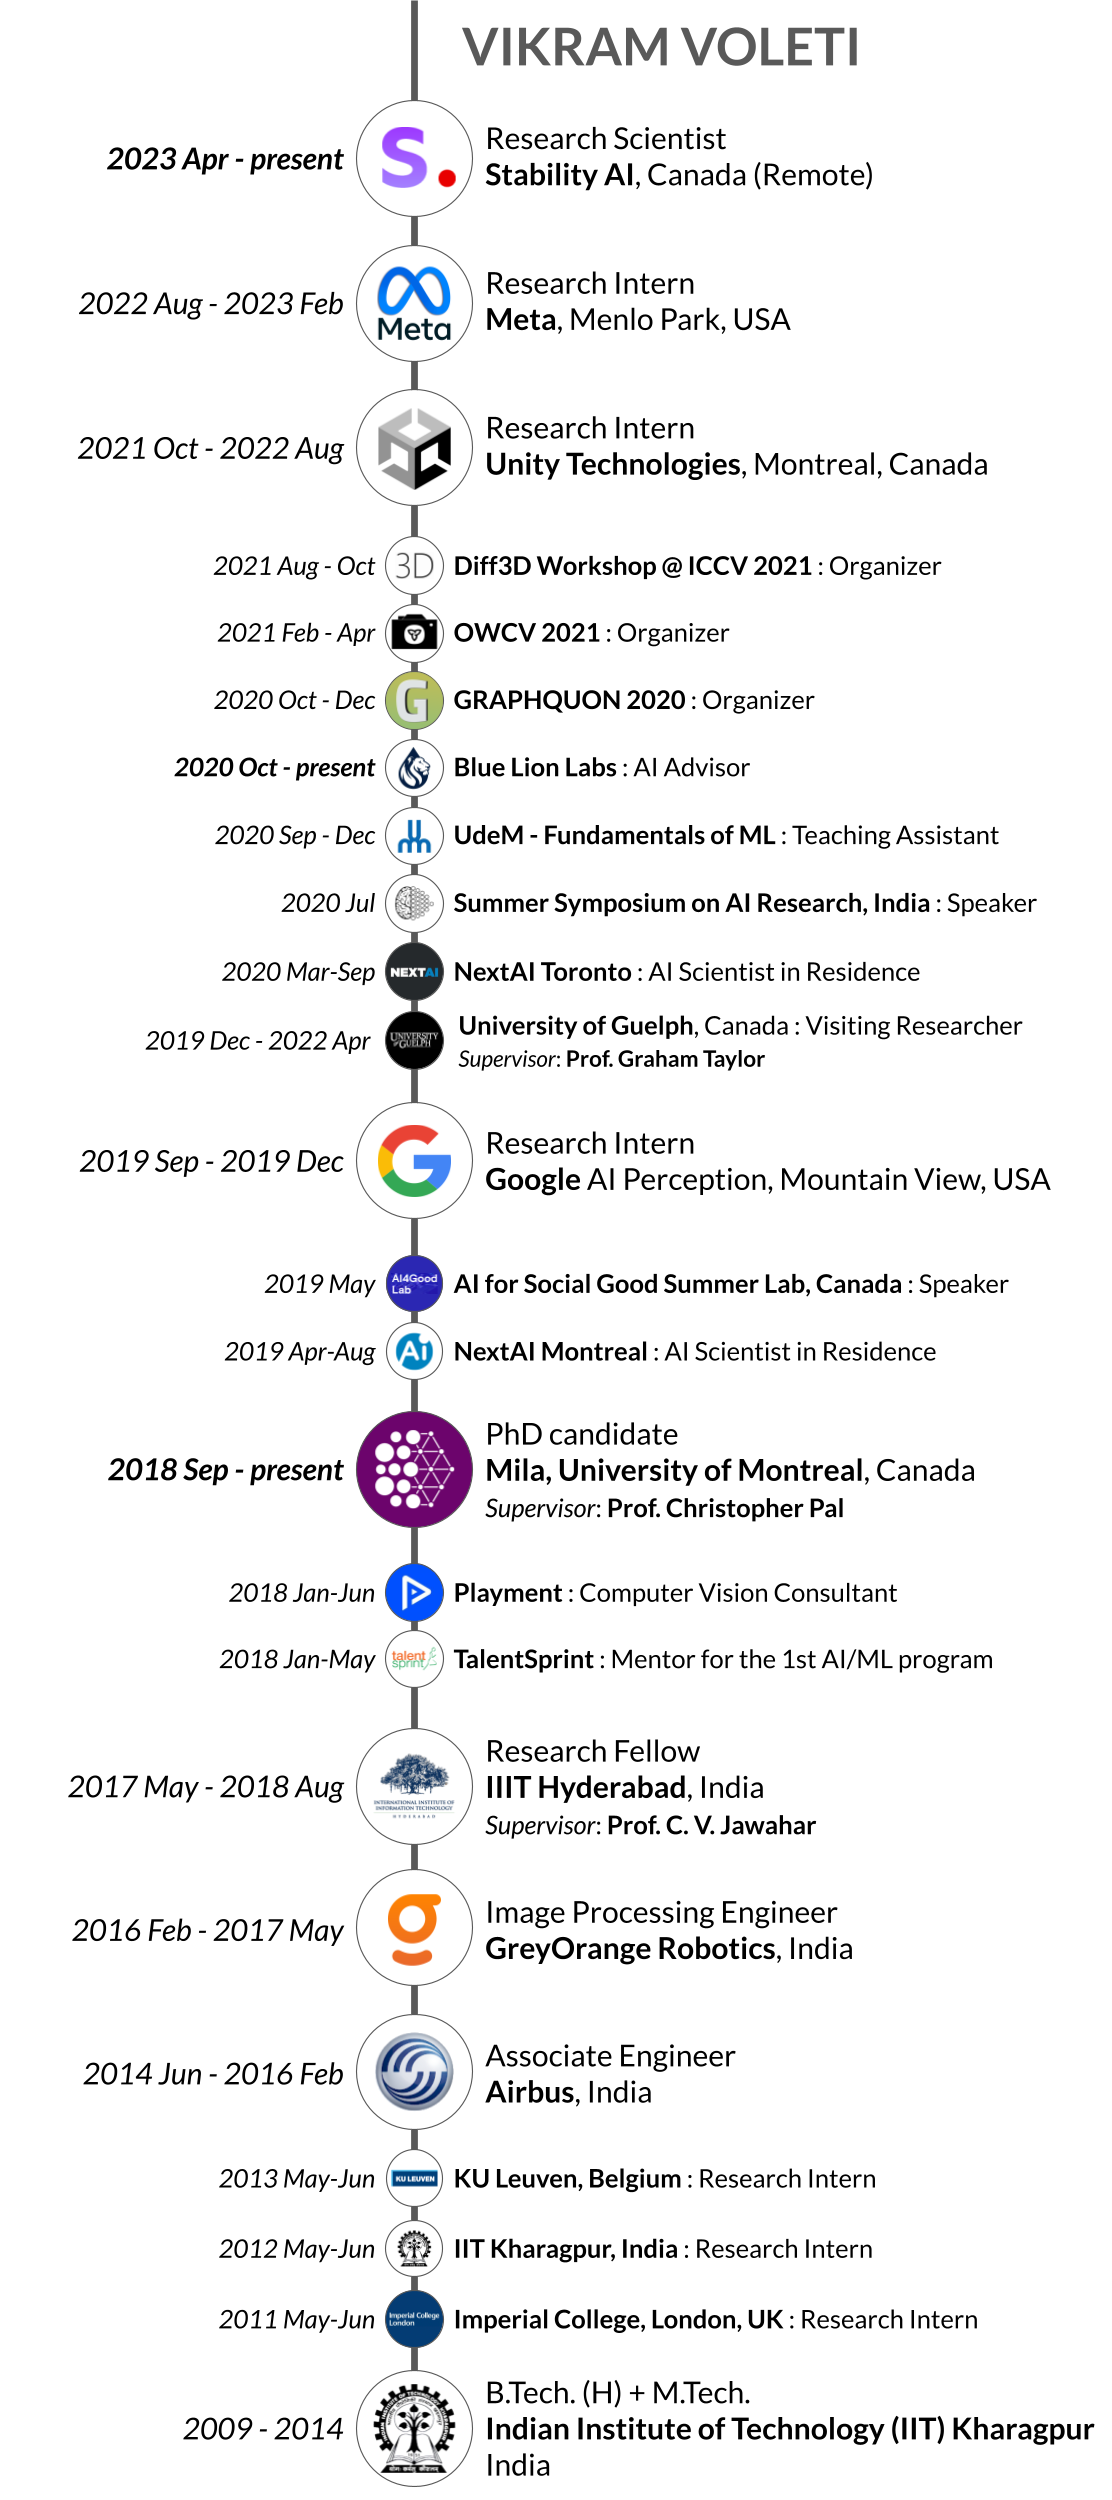
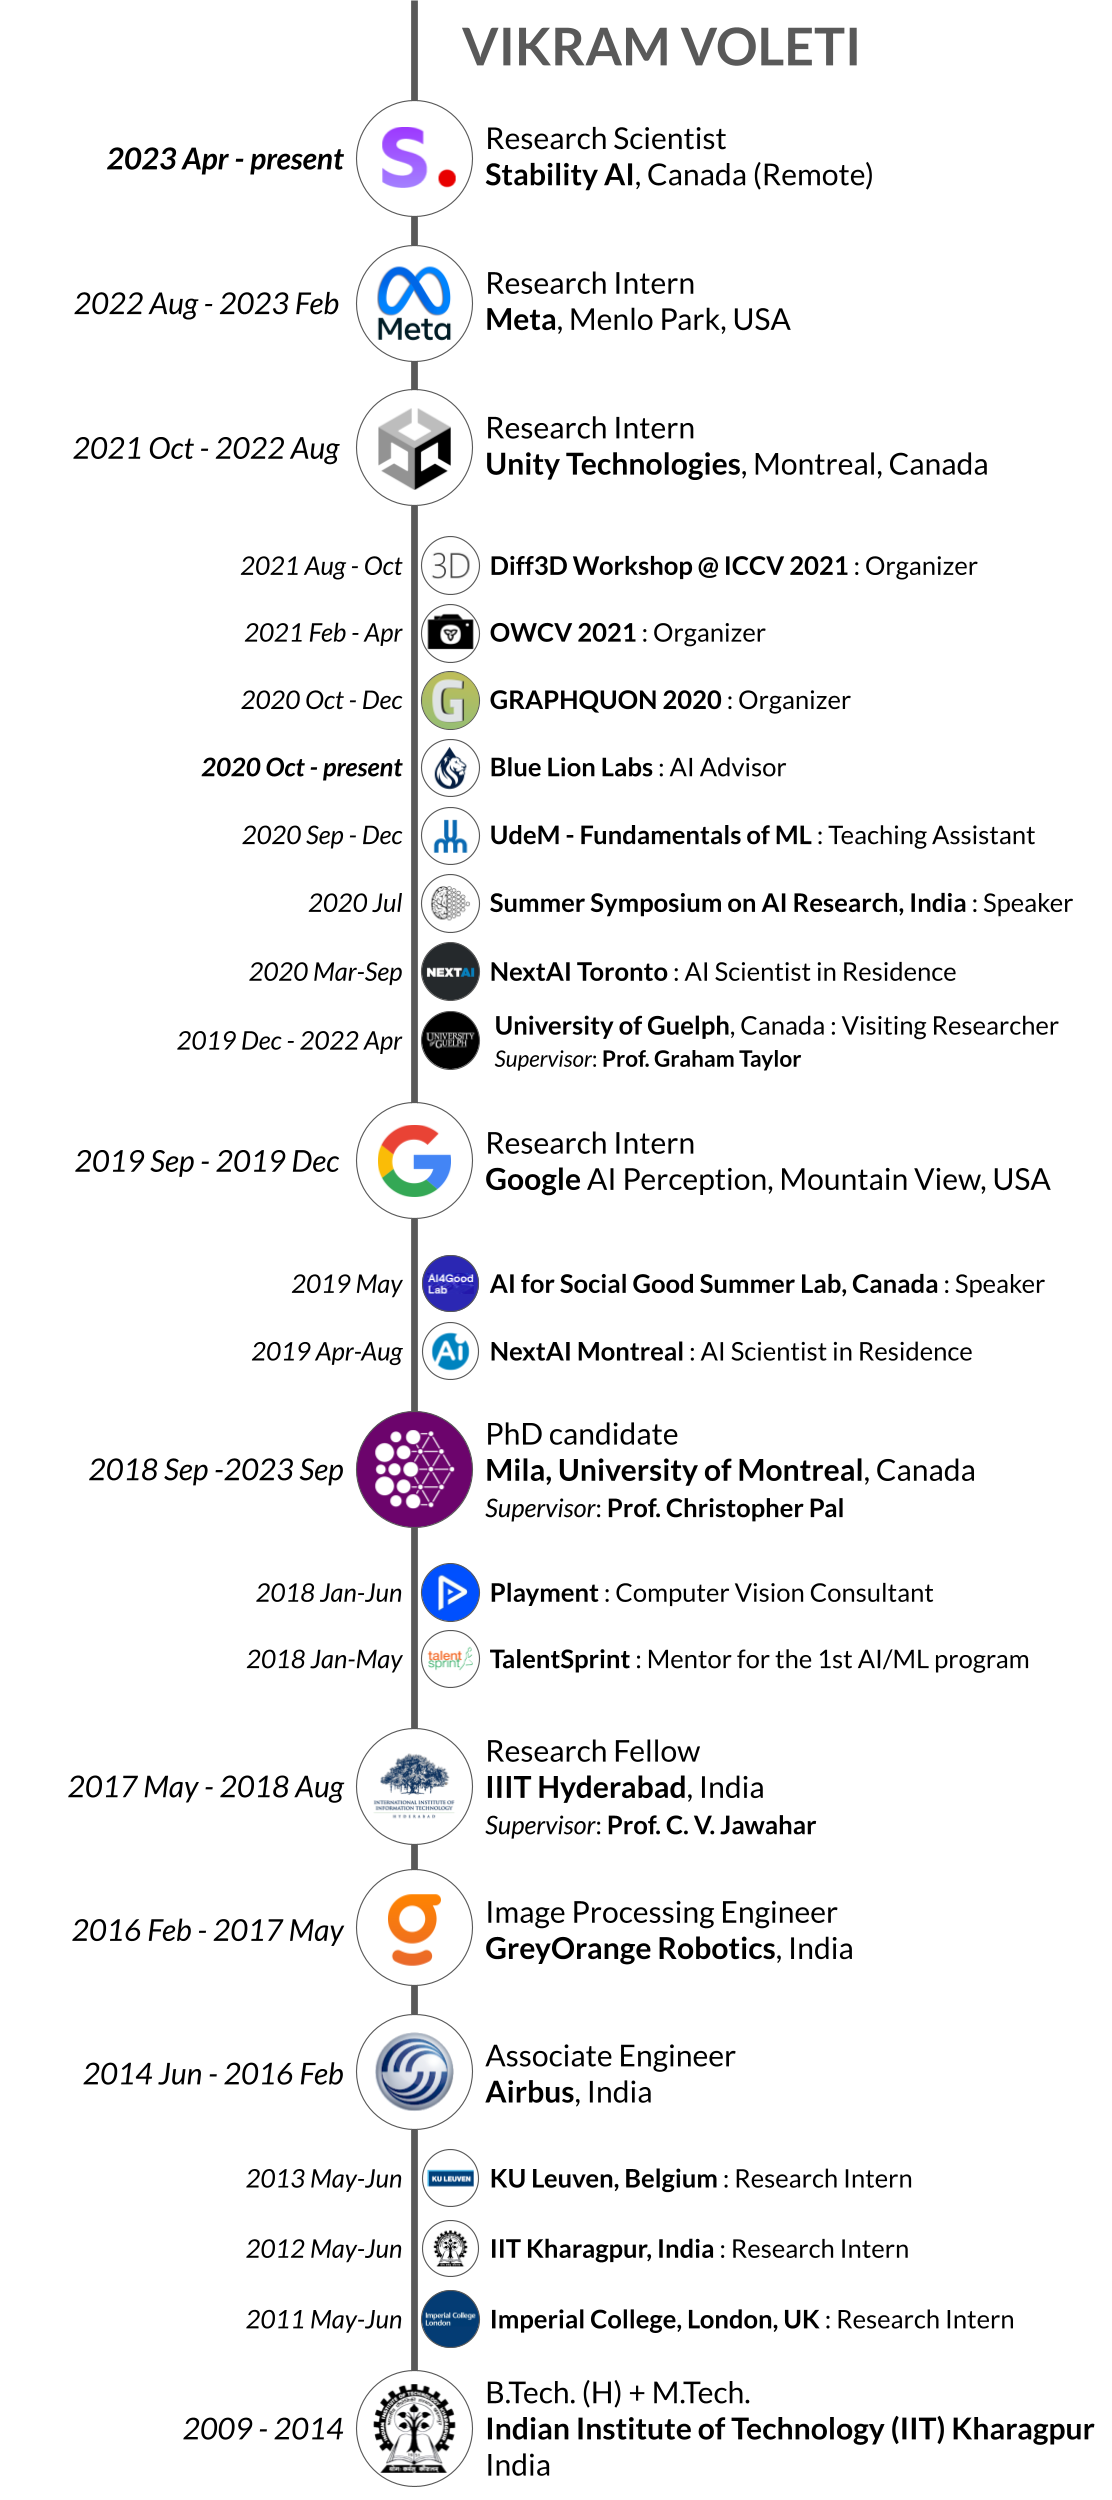
Updates

diff --git a/_pages/index.md b/_pages/index.md
@@ -13,11 +13,11 @@ permalink: /
 
 I am a Research Scientist at [Stability AI](https://stability.ai/), I work on generative modeling for image, video, and 3D.
 
-I am a final year PhD candidate in Computer Science at [Mila](https://mila.quebec/en/){:target="_blank"}, [University of Montreal](https://diro.umontreal.ca/){:target="_blank"}, I am supervised by [Prof. Christopher Pal](https://mila.quebec/en/person/pal-christopher/){:target="_blank"}. My main research interests are at the intersection of computer vision and deep learning, my past research spans generative modeling and representation learning for image, video and 3D.
+I completed my PhD in Computer Science at [Mila](https://mila.quebec/en/){:target="_blank"}, [University of Montreal](https://diro.umontreal.ca/){:target="_blank"}, I was supervised by [Prof. Christopher Pal](https://mila.quebec/en/person/pal-christopher/){:target="_blank"}. My main research interests are at the intersection of computer vision and deep learning, my past research spans generative modeling and representation learning for image, video and 3D.
 <!-- My projects include score-based diffusion probabilistic models for video prediction, generation, interpolation; multi-resolution image generation; self-supervised video prediction using dynamical modelling; 3D human pose estimation and inverse kinematics from videos. -->
 
 <!-- I also work as an AI Advisor to [Blue Lion Labs](https://bluelionlabs.com/){:target="_blank"}. -->
-Previously, I was a Research Intern at Meta, I worked on generation of video, 3D objects, 4D content from text. Before that, I was a MITACS Research Intern at [Unity Labs](https://unity.com/labs), I worked on 3D human pose estimation and inverse kinematics from video. In Fall 2019, I was a Research Intern at [Google](https://ai.google/research/teams/perception/){:target="_blank"} in the [Google AI Perception](https://ai.google/research/teams/perception/){:target="_blank"} team.
+Prior to that, I was a Research Intern at Meta, where I worked on generation of video, 3D objects, 4D content from text. Before that, I was a MITACS Research Intern at [Unity Labs](https://unity.com/labs), I worked on 3D human pose estimation and inverse kinematics from video. In Fall 2019, I was a Research Intern at [Google](https://ai.google/research/teams/perception/){:target="_blank"} in the [Google AI Perception](https://ai.google/research/teams/perception/){:target="_blank"} team.
 <!-- In 2019 and 2020, I was an AI Scientist in Residence at [NextAI](https://www.nextcanada.com/next-ai/){:target="_blank"}. -->
 
 <!-- Previously, I worked as a Research Fellow with [Prof. C. V. Jawahar](https://faculty.iiit.ac.in/~jawahar/){:target="_blank"} at [IIIT-Hyderabad](https://cvit.iiit.ac.in){:target="_blank"} on automated lip synthesis for translation of a video into a different languages. I was a Mentor for the first [Foundations of AI/ML](https://www.talentsprint.com/aiml.dpl){:target="_blank"} certificate program for industry professionals by IIIT-H Machine Learning Lab. Prior to that, I worked at [GreyOrange Robotics](http://www.greyorange.com/){:target="_blank"} on real time embedded vision in videos for warehouse automation, and autonomous robots; and at [Airbus, India](http://www.airbus.com/){:target="_blank"} on software development and integration. -->

diff --git a/_pages/experience.md b/_pages/experience.md
@@ -38,17 +38,17 @@ I lead AI research and development on generating 3D objects, images, videos from
 
 </div>
 
-<div class="experience-box" markdown="1">
+<!-- <div class="experience-box" markdown="1">
 [<img class="experience-picture" src="{{site.url}}{{site.baseurl}}/images/experience/mila_purple.png">](https://mila.quebec/en/){:target="_blank"}
 
-_September 2018 --- present_
+_September 2018 --- September 2023_
 
 ### [Mila](https://mila.quebec/en/){:target="_blank"}, [University of Montreal](https://diro.umontreal.ca/){:target="_blank"} - PhD candidate
 
 **PhD, Computer Science; Supervisor: [Prof. Christopher Pal](https://mila.quebec/en/person/pal-christopher/){:target="_blank"}**
 
 My research interests are broadly in generative models and representation learning for images, video, 3D. I work on image, video and 3D generation using latent dynamics, and score-based diffusion models.
-</div>
+</div> -->
 
 <div class="experience-box" markdown="1">
 [<img class="experience-picture" src="{{site.url}}{{site.baseurl}}/images/experience/bluelion.jpeg">](https://bluelionlabs.com/){:target="_blank"}
@@ -68,7 +68,7 @@ I advise [Blue Lion Labs](https://bluelionlabs.com/){:target="_blank"}, an early
 <div class="experience-box" markdown="1">
 [<img class="experience-picture" src="{{site.url}}{{site.baseurl}}/images/experience/mila_purple.png">](https://mila.quebec/en/){:target="_blank"}
 
-_Fall 2018 --- present (anticipated 08/2023)_
+_2018 --- 2023_
 
 ### [Mila](https://mila.quebec/en/){:target="_blank"}, [University of Montreal](https://diro.umontreal.ca/){:target="_blank"}, Canada
 
